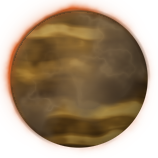
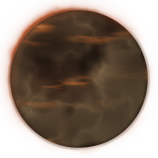
Brown dwarfs: keep the dark, nearly cold look instead of the mottled one
Claude-Session: https://claude.ai/code/session_01JBSoBdAT3FeCyXV6Bu7Tri

diff --git a/tools/make_barriers.py b/tools/make_barriers.py
@@ -333,8 +333,8 @@ BROWN_DWARFS = [
     [(40, 22, 8), (195, 140, 50), (240, 200, 105), (255, 235, 170), (225, 100, 40), (3, 5), 0.0, "mottled"],  # mottled brown and ochre
     [(18, 10, 8), (70, 45, 30), (200, 95, 35), (255, 180, 100), (190, 90, 50), (3, 5), 0.25],      # dark, nearly cold
 ]
-# the looks kept for the maps, in order: the magenta and the mottled ones
-BROWN_DWARFS_KEPT = [5, 6]
+# the looks kept for the maps, in order: the magenta and the dark, nearly cold ones
+BROWN_DWARFS_KEPT = [5, 7]
 
 
 def _stretched(rng, s, octaves, base, sx=4):
